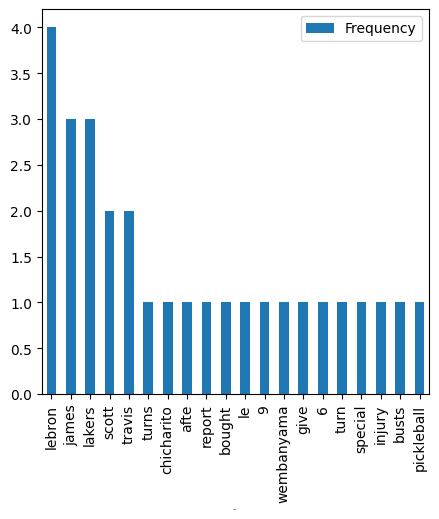
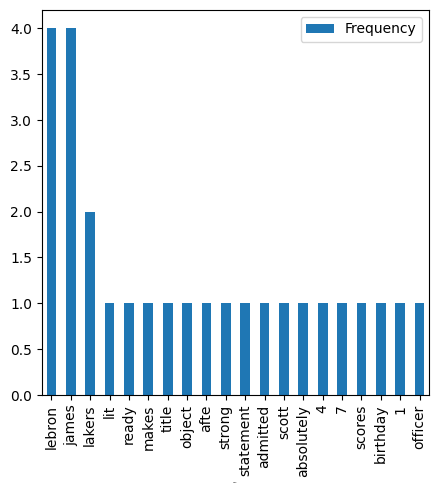
'filter_df'

diff --git a/app.py b/app.py
@@ -48,7 +48,7 @@ def homepage():
 def filter():
     player_name = request.form['player']
     global df
-    df = df[df['Name']==player_name]
+    filter_df = df[df['Name']==player_name]
     global wordcloud_filenames
     global barplots_filenames
     filter_wordclouds=[]
@@ -58,7 +58,7 @@ def filter():
             filter_wordclouds.append(wordcloud_filenames[i])
             filter_barplots.append(barplots_filenames[i])
 
-    return render_template("results.html",name_list = name_list, table_headings = headings, player_names=df['Name'], data=df.drop(columns=['Name']),len_df = len(df), wordcloud_files = filter_wordclouds, plot_files = filter_barplots)
+    return render_template("results.html",name_list = name_list, table_headings = headings, player_names=filter_df['Name'], data=filter_df.drop(columns=['Name']),len_df = len(filter_df), wordcloud_files = filter_wordclouds, plot_files = filter_barplots, player_name = player_name)
 
 if __name__=="__main__":
     app.run(debug=True)
